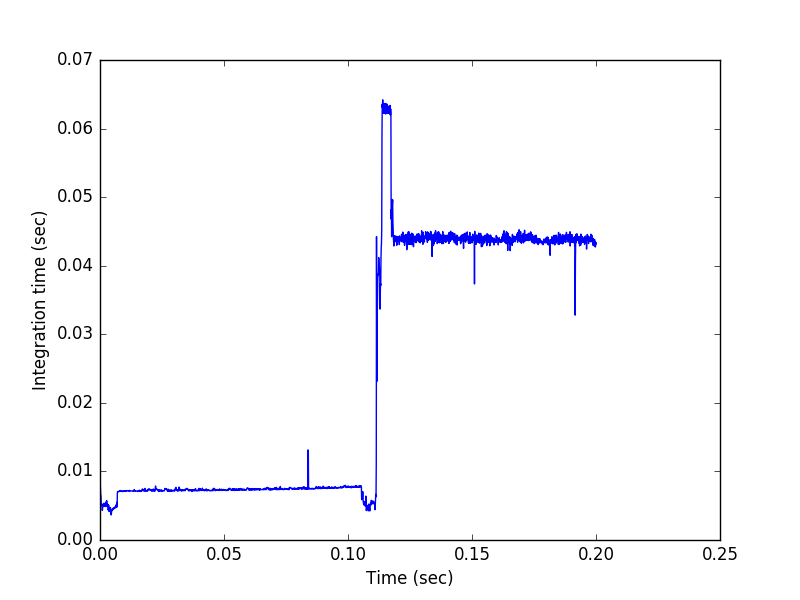
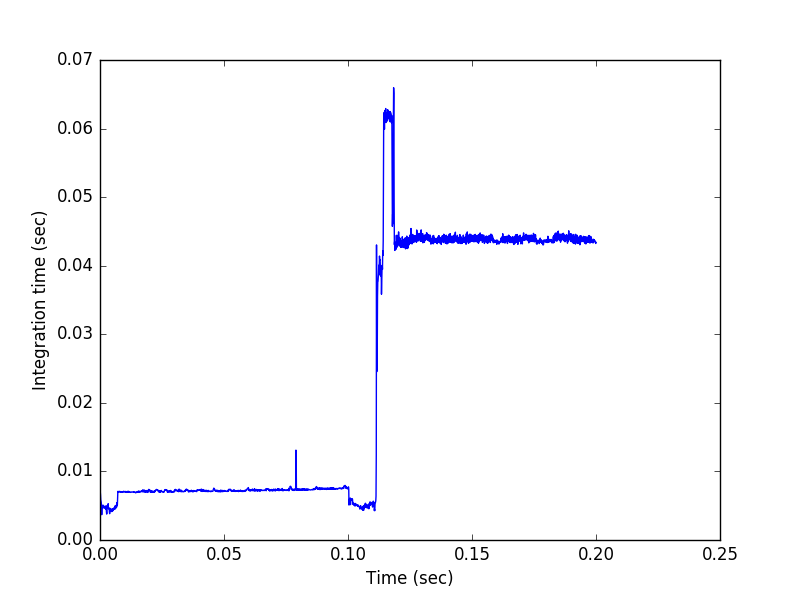
Very high precision run.

Changed region(s): [[0.4688, 0.15, 0.75, 0.51], [0.125, 0.78, 0.4688, 0.87]]

diff --git a/Stiffness_CO_H2_rogers_6_21_17_validation.py b/Stiffness_CO_H2_rogers_6_21_17_validation.py
@@ -187,7 +187,7 @@ tlist = np.arange(tstart, tstop + 0.5 * dt, dt)
 
 # ODE Solver parameters
 abserr = 1.0e-17
-relerr = 1.0e-14
+relerr = 1.0e-15
 
 # Load the initial conditions from the PaSR files
 pasrarrays = []
